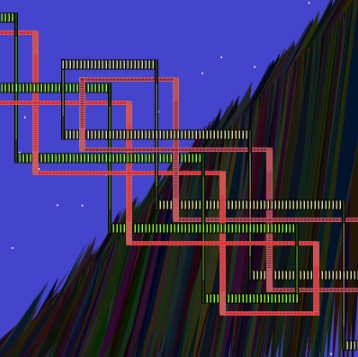
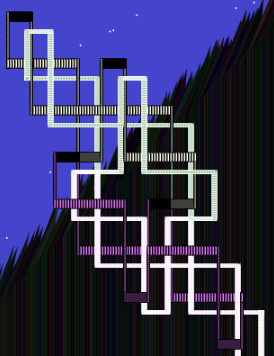
Spirals

diff --git a/js/art/latest.js b/js/art/latest.js
@@ -31,12 +31,12 @@ var pulse = 0;
 var beat = 25;
 
 function draw_weave(weave) {
-  stroke(color(0,0,00));
+  stroke(color(0,0,0)); // black outline
   fill(weave.color);
   // circle(weave.x,weave.y, weave.size);
   rect(weave.x, weave.y, 
     weave.size / 4, weave.size);
-  stroke(color(200,100,100));
+  stroke(color(255,255,255)); // white outline
   fill(weave.color2);
   rect(weave.x + 2* weave.size,
     weave.y + 2*weave.size, 
@@ -59,7 +59,7 @@ function zippy() {
   noStroke();
   tri_size = 60;
   for(i=0; i<400; i++) {
-    fill(fresh_color(5)); // darker fill color
+    fill(fresh_color(3)); // darker fill color
     x = i;
     y = 400 - i
     triangle(x, y, x+30, y-random(80), x, y+i+30);
@@ -87,10 +87,19 @@ function setup() {
     [3,0,
       0,2,
       ], // wide box
+    [2,0,
+      0,2,
+      -1,0,
+      0,-1,
+      -1,0,
+      0,2,
+      2,0,
+      ], // spiral
     [0,2,
       1,0,
       0,-2
       ] // U
+
   ];
   var curve_count = 4;
   for(i=0; i<curve_count; i++) {
